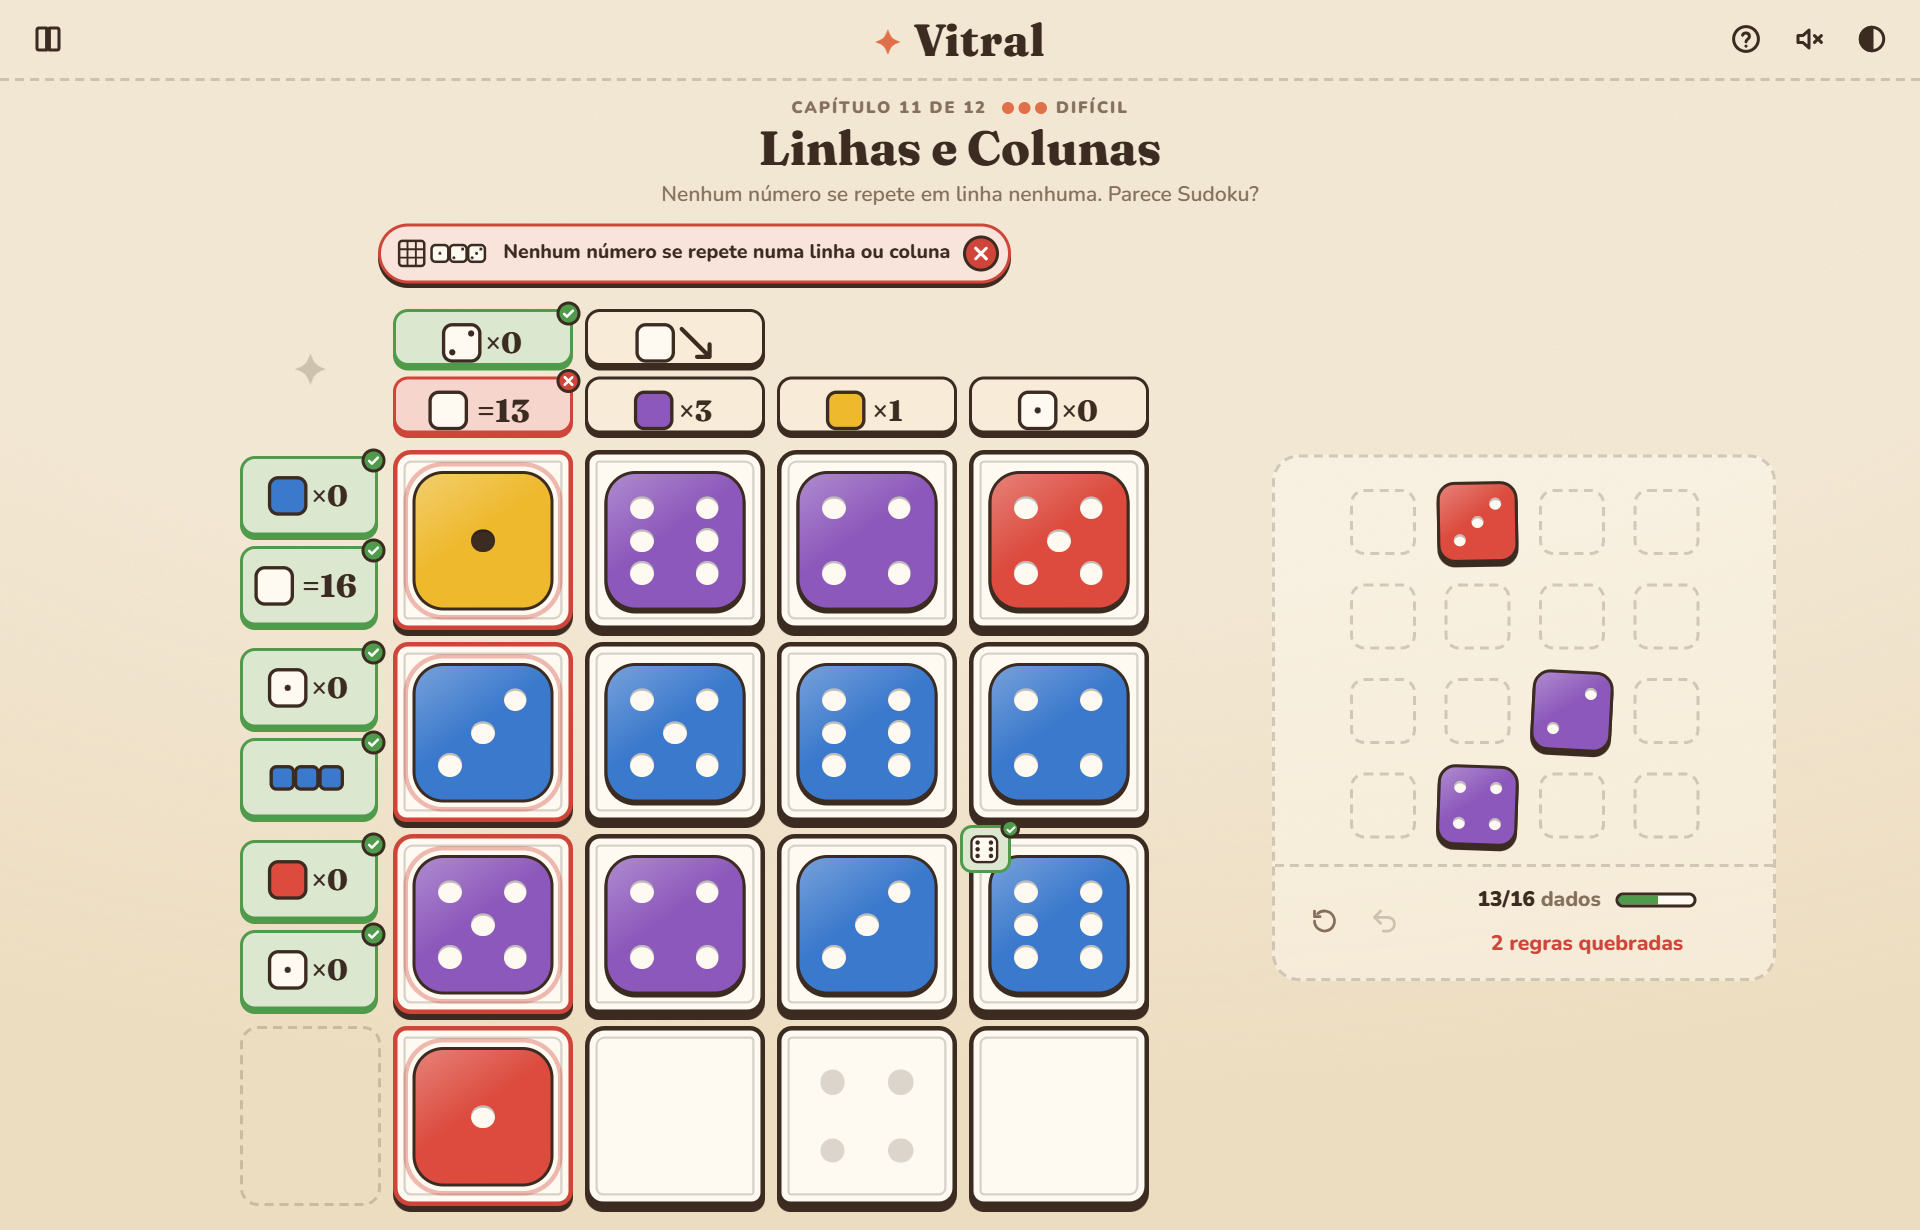
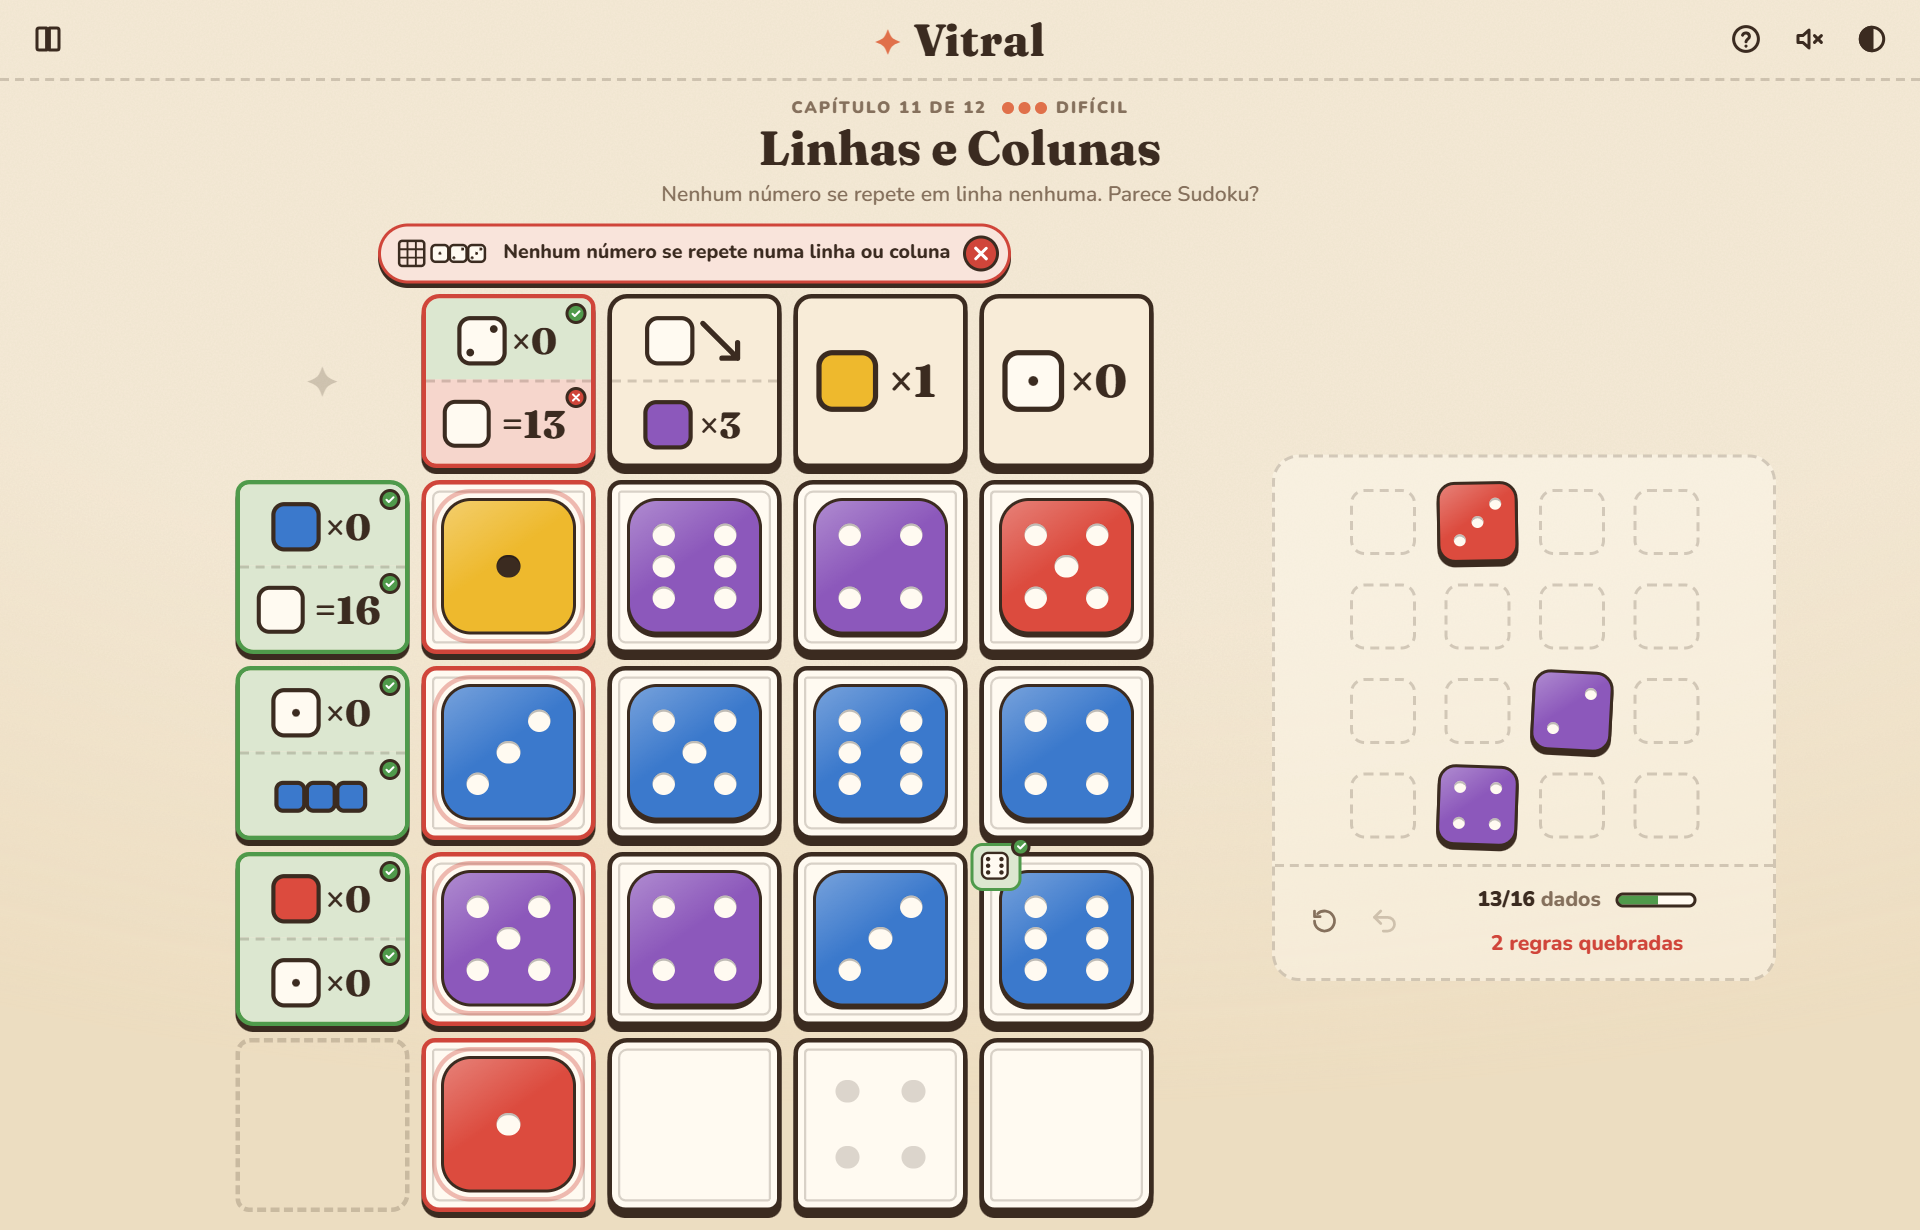
Rule headers are cell-sized boxes
Row and column headers take exactly one cell (dashed when empty); two rules
split the box into equal halves with the glyphs scaled to fit. Board fitting
is now a plain (n + 1) cells per axis.

Changed region(s): [[0.125, 0.2163, 0.625, 1.0]]

diff --git a/src/styles/main.css b/src/styles/main.css
@@ -310,8 +310,8 @@ button {
 
 .board {
   display: grid;
-  grid-template-columns: var(--head-w, calc(var(--cell) * 0.78)) repeat(var(--cols), var(--cell));
-  grid-template-rows: var(--head-h, calc(var(--cell) * 0.78)) repeat(var(--rows), var(--cell));
+  grid-template-columns: repeat(var(--tracks-x), var(--cell));
+  grid-template-rows: repeat(var(--tracks-y), var(--cell));
   gap: var(--gap);
 }
 
@@ -326,58 +326,71 @@ button {
   font-size: calc(var(--cell) * 0.22);
 }
 
-/* Row / column headers holding the line rules */
+/* Row / column headers: a cell-sized box, like the cells it describes. Two rules split it in halves. */
 .head {
   min-width: 0;
   min-height: 0;
   display: flex;
   flex-direction: column;
-  justify-content: center;
-  gap: calc(var(--cell) * 0.06);
-  border-radius: 12px;
+  overflow: hidden;
+  background: var(--panel-2);
+  border: 3px solid var(--stroke);
+  box-shadow: 0 4px 0 var(--stroke);
   cursor: pointer;
-  transition: transform 0.15s;
+  transition: transform 0.15s, border-color 0.2s;
 }
 
 .head.is-empty {
   cursor: default;
-  border: 2px dashed var(--faint);
+  background: transparent;
+  border: 3px dashed var(--faint);
+  box-shadow: none;
 }
 
-.head--col {
-  height: var(--head-h, calc(var(--cell) * 0.78));
-  justify-content: flex-end;
-  padding: 7px 0 3px;
+.head.is-ok {
+  border-color: var(--ok);
 }
 
-/* Two rules share the header height instead of overflowing it. */
-.head--col .badge {
-  flex: 0 1 calc((var(--head-h, calc(var(--cell) * 0.78)) - 16px) / 2);
-}
-
-.head--row {
-  padding-right: 2px;
+.head.is-broken {
+  border-color: var(--danger);
 }
 
 @media (hover: hover) {
   .head:not(.is-empty):hover {
-    transform: scale(1.04);
+    transform: translateY(-2px);
   }
 }
 
+/* One rule slot inside a header */
 .badge {
   position: relative;
-  flex: 0 1 max(34px, calc(var(--cell) * 0.44));
+  flex: 1 1 0;
   min-height: 0;
   display: grid;
   place-items: center;
-  padding: 2px 4px;
-  background: var(--panel-2);
-  border: 2.5px solid var(--stroke);
-  border-radius: 10px;
-  box-shadow: 0 3px 0 var(--stroke);
+  padding: 5% 7%;
   font-size: clamp(14px, calc(var(--cell) * 0.24), 24px);
-  transition: background 0.2s, border-color 0.2s;
+  transition: background 0.2s;
+}
+
+.badge + .badge {
+  border-top: 2px dashed var(--faint);
+}
+
+.head .glyph {
+  width: 100%;
+  height: 100%;
+}
+
+/* The glyph scales to fill its slot, whatever the cell size. */
+.head .glyph-svg {
+  width: 100%;
+  height: 100%;
+  max-height: calc(var(--cell) * 0.5);
+}
+
+.head.is-split .glyph-svg {
+  max-height: calc(var(--cell) * 0.4);
 }
 
 /* Status: a small stamp in the corner */
@@ -407,16 +420,23 @@ button {
 }
 
 .badge.is-ok,
-.badge.is-broken,
+.badge.is-broken {
+  background: color-mix(in srgb, var(--stamp-color) 20%, var(--panel));
+}
+
 .cell-tag.is-ok,
 .cell-tag.is-broken {
   border-color: var(--stamp-color);
   background: color-mix(in srgb, var(--stamp-color) 20%, var(--panel));
 }
 
-.badge.is-ok,
-.badge.is-broken {
-  box-shadow: 0 3px 0 var(--stamp-color);
+/* Inside a header the stamp sits in the slot's corner. */
+.badge::after {
+  top: 3px;
+  right: 3px;
+  width: 14px;
+  height: 14px;
+  background-size: 8px;
 }
 
 .badge.is-ok::after,
@@ -1217,6 +1237,29 @@ button {
 
 .ex-head .badge {
   flex: 1;
+}
+
+/* Stand-alone rule badges (help screen) keep a card look. */
+.ex-head .badge,
+.legend-item .badge {
+  padding: 2px 4px;
+  background: var(--panel-2);
+  border: 2.5px solid var(--stroke);
+  border-radius: 10px;
+  box-shadow: 0 3px 0 var(--stroke);
+}
+
+.legend-item .badge.is-ok,
+.legend-item .badge.is-broken {
+  border-color: var(--stamp-color);
+}
+
+.legend-item .badge::after {
+  top: -7px;
+  right: -7px;
+  width: 16px;
+  height: 16px;
+  background-size: 10px;
 }
 
 .ex-die {

diff --git a/src/ui/level-view.ts b/src/ui/level-view.ts
@@ -21,10 +21,6 @@ export interface LevelViewOptions {
 
 type DropTarget = number | 'tray' | null;
 
-const HEADER_RATIO = 0.78;
-/** Smallest header sizes (px): a row header fits one badge's width, a column header fits its stacked badges. */
-const HEAD_MIN_WIDTH = 60;
-const HEAD_MIN_HEIGHT = [30, 42, 84];
 const RADII = ['12px 9px 13px 10px', '9px 13px 10px 12px', '13px 10px 9px 12px', '10px 12px 12px 9px'];
 const STATUS_ICON: Record<Status, string> = { open: '', ok: ICONS.check, broken: ICONS.close };
 
@@ -84,8 +80,9 @@ export class LevelView {
 
     // Board: column rules on top, row rules on the left, window restrictions printed on cells.
     this.board = h('div', { class: 'board', 'aria-label': 'Vitral' });
-    this.board.style.setProperty('--rows', String(p.nRows));
-    this.board.style.setProperty('--cols', String(p.nCols));
+    // Headers are one more cell on each axis.
+    this.board.style.setProperty('--tracks-y', String(p.nRows + 1));
+    this.board.style.setProperty('--tracks-x', String(p.nCols + 1));
     this.board.append(h('div', { class: 'corner', 'aria-hidden': 'true' }, '✦'));
     for (let c = 0; c < p.nCols; c++) this.board.append(this.makeHead('col', c));
     for (let r = 0; r < p.nRows; r++) {
@@ -162,7 +159,8 @@ export class LevelView {
     const rules = p.rules.flatMap((rule, i) => ('line' in rule && rule.line === line && rule.index === index ? [i] : []));
     const text = rules.map((i) => describeRule(p.rules[i])).join(' · ');
     const el = h('div', {
-      class: `head head--${line}${rules.length ? '' : ' is-empty'}`,
+      class: `head head--${line}${rules.length ? '' : ' is-empty'}${rules.length > 1 ? ' is-split' : ''}`,
+      style: `border-radius: ${RADII[(index * 2 + (line === 'row' ? 1 : 0)) % RADII.length]}`,
       role: rules.length ? 'button' : undefined,
       tabindex: rules.length ? 0 : undefined,
       'aria-label': text || `${line === 'row' ? 'Linha' : 'Coluna'} ${index + 1}: sem regra`,
@@ -451,23 +449,15 @@ export class LevelView {
     );
   }
 
-  /** Sizes cells and headers to the space available. */
+  /** Sizes cells to the space available. Headers are one more cell on each axis. */
   private fit(): void {
     const p = this.s.puzzle;
     const { width, height } = this.boardWrap.getBoundingClientRect();
     const gap = width < 480 ? 5 : 8;
-    const colRules = Math.max(0, ...this.heads.filter((hd) => hd.el.classList.contains('head--col')).map((hd) => hd.rules.length));
-    const headHeight = HEAD_MIN_HEIGHT[Math.min(colRules, 2)];
-    // Cell size along one axis, with the header proportional to the cell but never below its floor.
-    const along = (space: number, n: number, headMin: number) => {
-      const proportional = (space - gap * n) / (n + HEADER_RATIO);
-      return proportional * HEADER_RATIO >= headMin ? proportional : (space - gap * n - headMin) / n;
-    };
-    const size = Math.max(34, Math.min(120, Math.floor(Math.min(along(width, p.nCols, HEAD_MIN_WIDTH), along(height, p.nRows, headHeight)))));
+    const along = (space: number, n: number) => (space - gap * n) / (n + 1);
+    const size = Math.max(34, Math.min(120, Math.floor(Math.min(along(width, p.nCols), along(height, p.nRows)))));
     this.el.style.setProperty('--cell', `${size}px`);
     this.el.style.setProperty('--gap', `${gap}px`);
-    this.el.style.setProperty('--head-w', `${Math.max(size * HEADER_RATIO, HEAD_MIN_WIDTH)}px`);
-    this.el.style.setProperty('--head-h', `${Math.max(size * HEADER_RATIO, headHeight)}px`);
     this.trayScroll.classList.toggle('is-scrollable', this.trayScroll.scrollWidth > this.trayScroll.clientWidth + 1);
   }
 }
